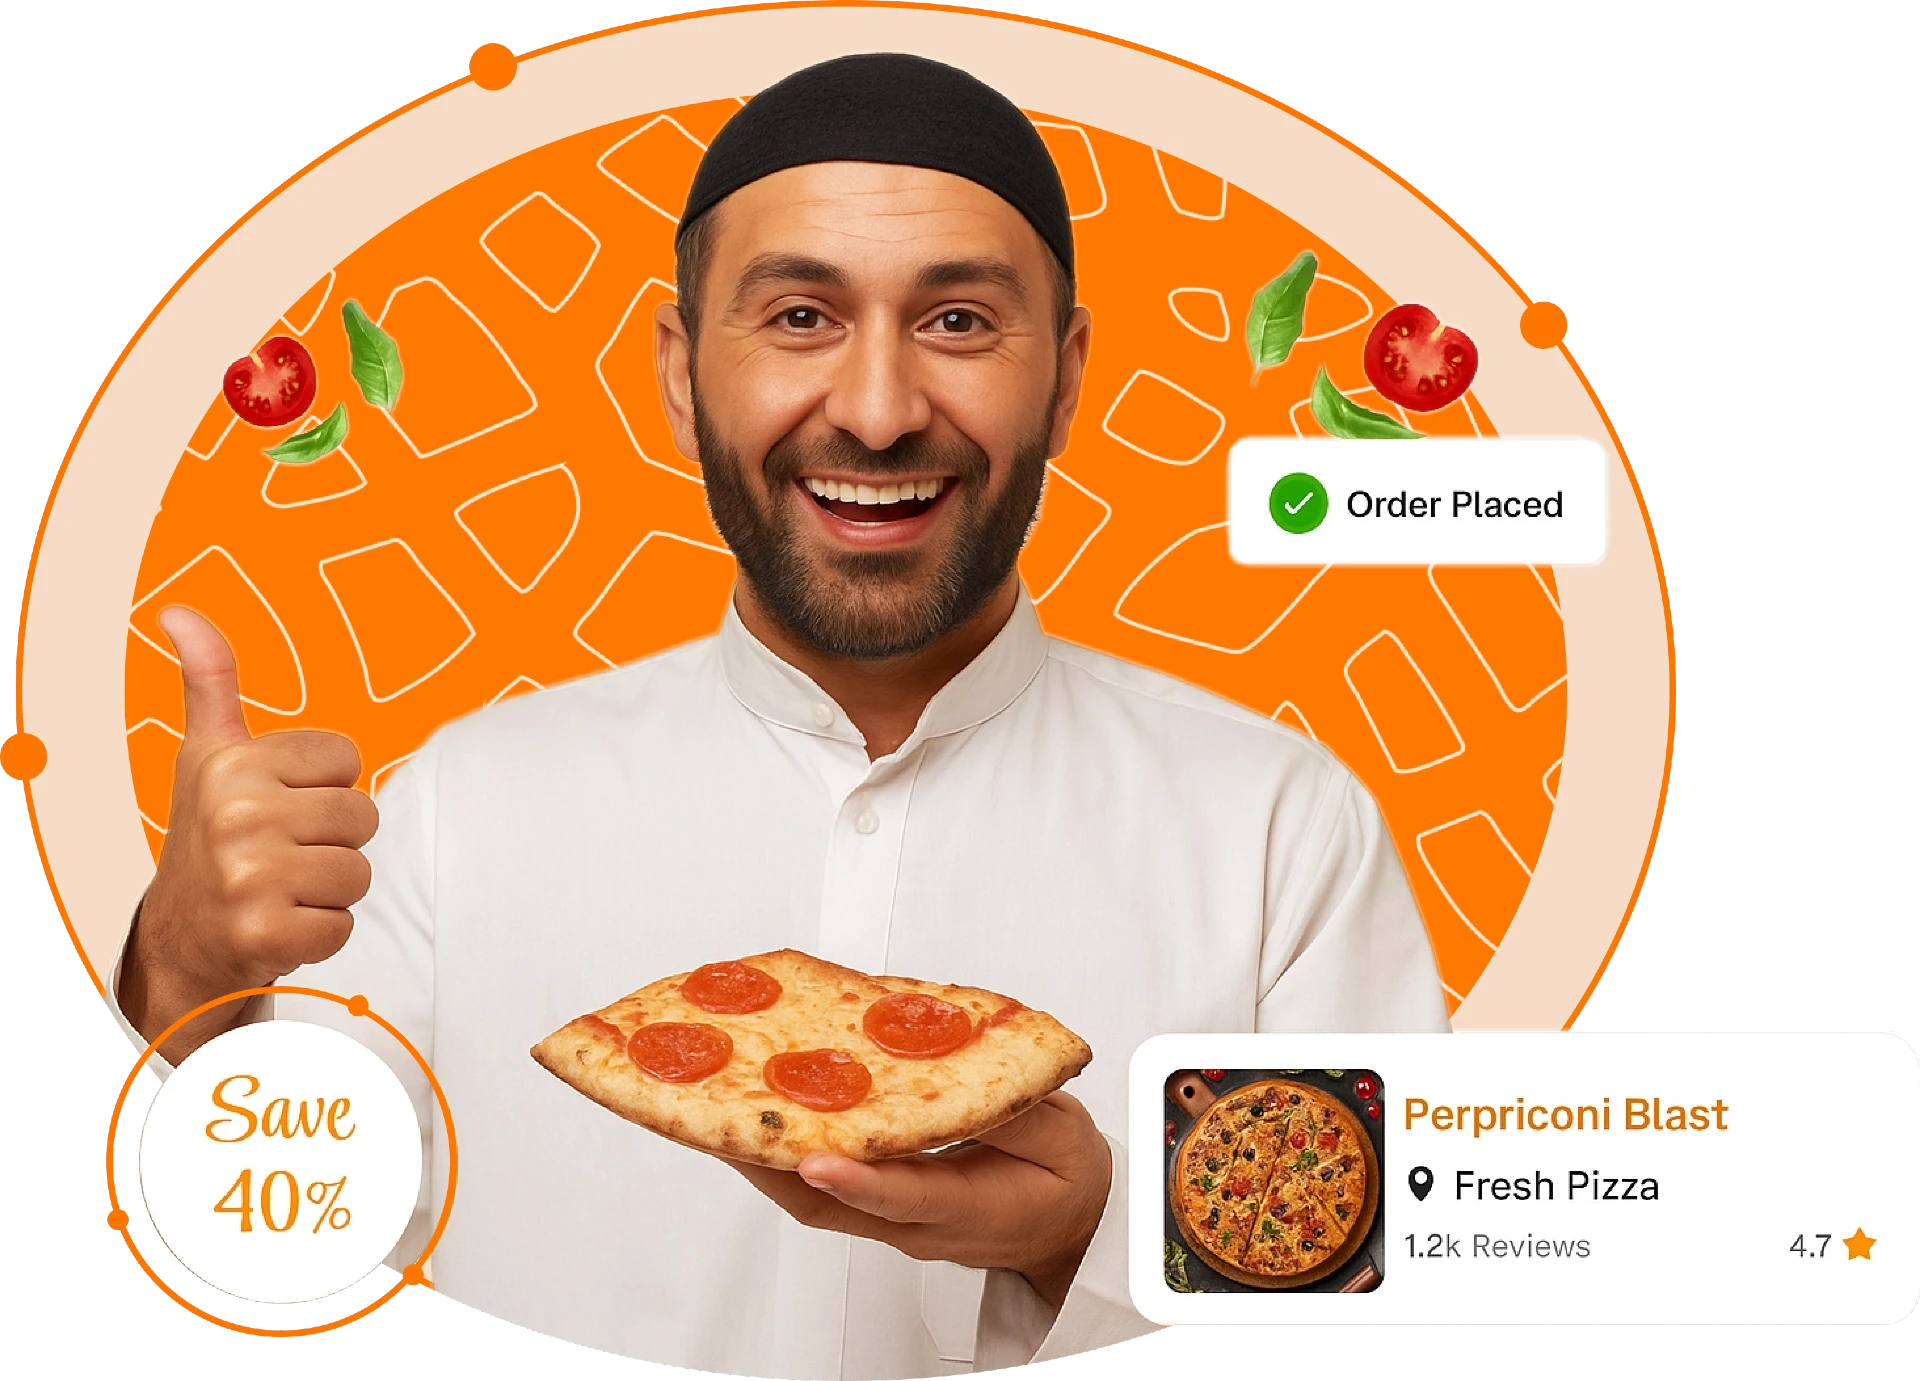
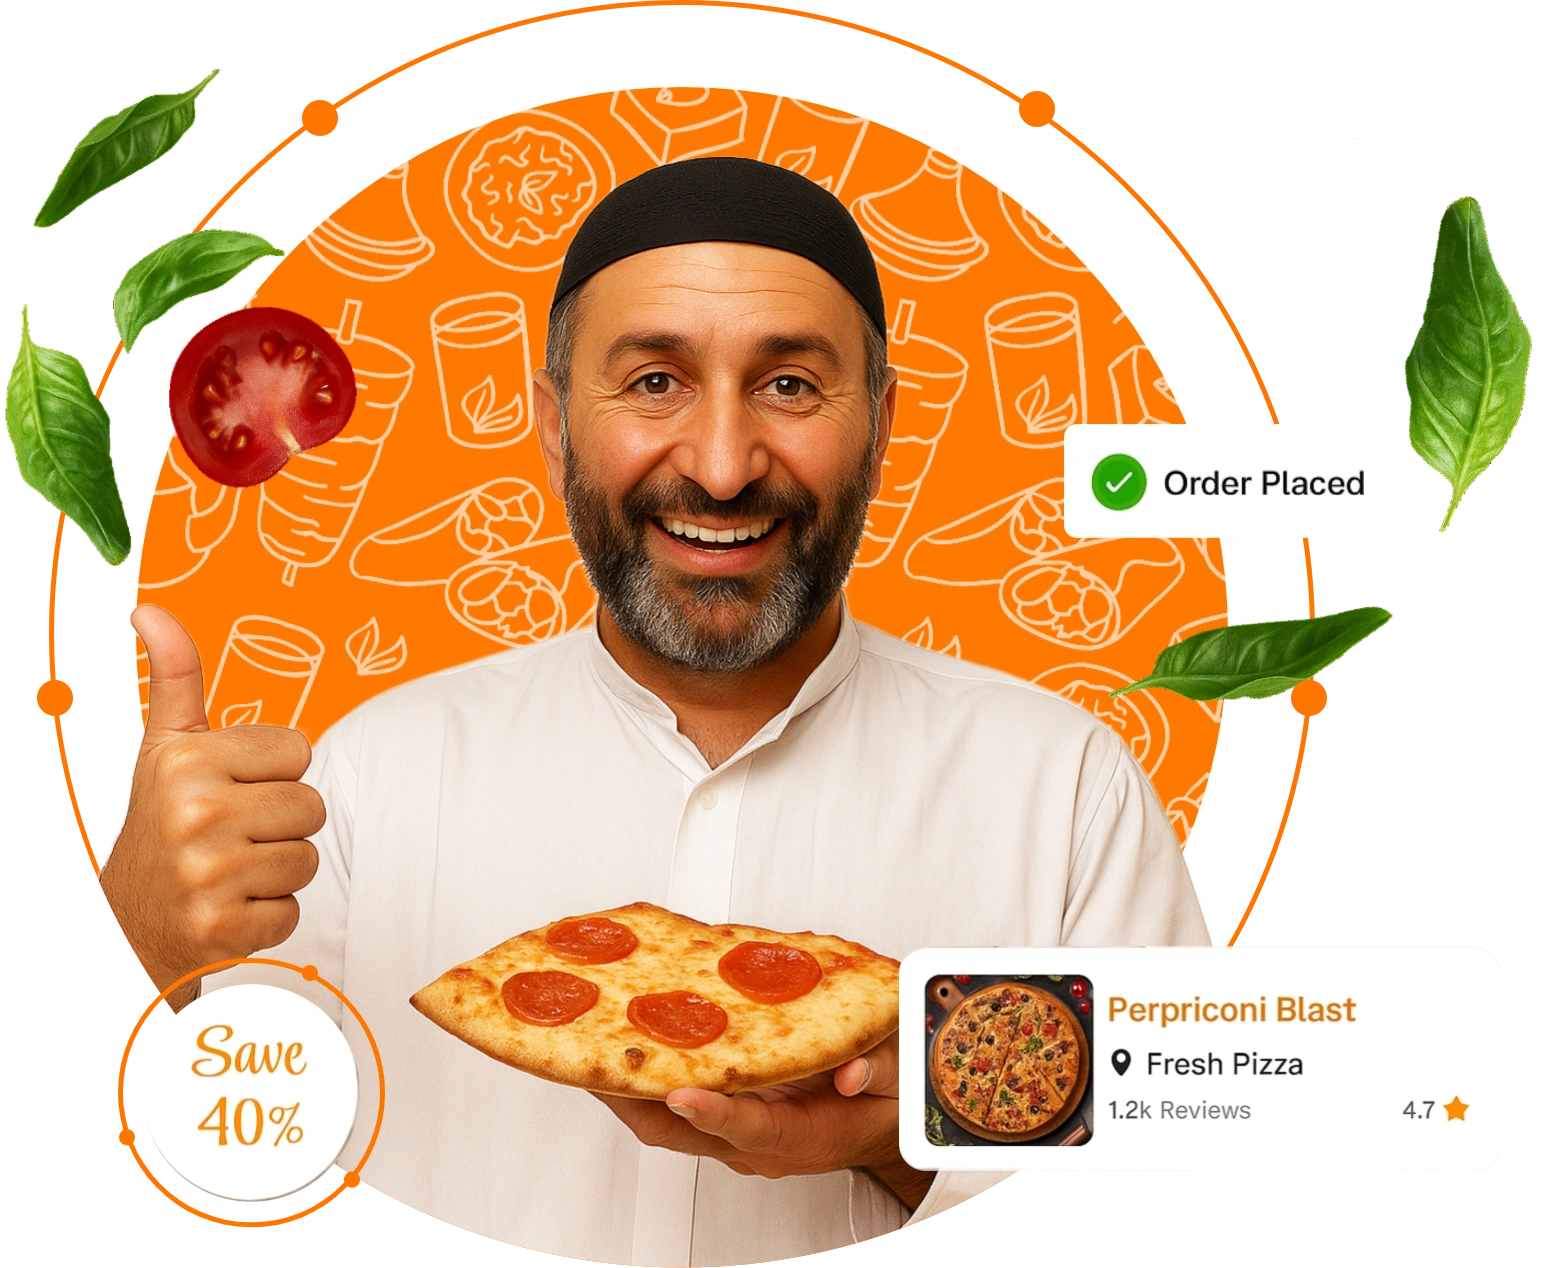
feat: update the design of hero section

diff --git a/src/app/[locale]/(marketing)/(landing)/_components/Hero.tsx b/src/app/[locale]/(marketing)/(landing)/_components/Hero.tsx
@@ -1,7 +1,10 @@
 import React from "react";
 import Image from "next/image";
 
+import { Star } from "lucide-react";
 import { useTranslations } from "next-intl";
+
+import { Button } from "@/components/ui/button";
 
 const Hero = () => {
   const t = useTranslations("landing.hero");
@@ -13,19 +16,77 @@ const Hero = () => {
         alt={"hero section banner"}
         className="object-cover"
       />
-      <div className="absolute top-0 flex h-full w-full items-center justify-center bg-black/60">
+      <div className="absolute top-0 flex h-full w-full items-center justify-center bg-black/85">
         <div className="content-container flex h-full w-full items-center justify-center gap-5 pt-20 pb-5 max-lg:flex-col">
-          <div className="flex w-full flex-col gap-4 text-white max-lg:text-center lg:w-1/2">
-            <h1 className="text-3xl font-bold md:text-5xl lg:text-6xl xl:text-7xl">
+          <div className="flex w-full flex-col text-white max-lg:text-center lg:w-1/2 xl:pr-20">
+            <div className="mb-2 flex items-end gap-2 max-lg:justify-center">
+              <p className="text-lg font-semibold">Hot & Fresh Delivery.</p>
+              <div className="bg-primary mb-2 h-0.5 w-8"></div>
+            </div>
+
+            <h1 className="mb-4 text-2xl font-bold md:text-5xl lg:mb-6 lg:text-6xl xl:text-7xl">
               {t.rich("title", {
                 span: (chunks) => (
                   <span className="text-primary">{chunks}</span>
                 ),
               })}
             </h1>
-            <p className="font-semibold lg:text-lg">{t("description")}</p>
+            <p className="mb-8 font-semibold lg:mb-12 lg:text-lg">
+              {t("description")}
+            </p>
+            <div className="mb-8 flex items-center gap-4 max-lg:justify-center lg:mb-12">
+              <Button className="rounded-full" size={"lg"}>
+                Order Now
+              </Button>
+              <Button
+                className="text-primary border-primary rounded-full border bg-white hover:text-white"
+                size={"lg"}
+              >
+                Contact Us
+              </Button>
+            </div>
+            <div className="flex items-center gap-3 max-lg:justify-center">
+              <div className="flex">
+                <div className="overflow-hidden rounded-full border-2 border-white">
+                  <Image
+                    src={"/assets/images/landing/customer.jpeg"}
+                    alt="customer image"
+                    width={40}
+                    height={40}
+                    className="aspect-square size-10 object-cover"
+                  />
+                </div>
+                <div className="-ml-4 overflow-hidden rounded-full border-2 border-white">
+                  <Image
+                    src={"/assets/images/landing/customer-2.jpg"}
+                    alt="customer image"
+                    width={40}
+                    height={40}
+                    className="aspect-square size-10 object-cover"
+                  />
+                </div>
+                <div className="-ml-4 min-w-10 overflow-hidden rounded-full border-2 border-white">
+                  <Image
+                    src={"/assets/images/landing/customer-3.jpg"}
+                    alt="customer image"
+                    width={40}
+                    height={40}
+                    className="aspect-square size-10 object-cover"
+                  />
+                </div>
+              </div>
+
+              <div className="text-sm">
+                <p className="text-nowrap">Our Happy Customers</p>
+                <div className="flex items-center gap-1">
+                  <Star className="fill-yellow-400 text-yellow-400" size={16} />
+                  4.9
+                  <span className="text-muted-foreground"> (12k Reviews)</span>
+                </div>
+              </div>
+            </div>
           </div>
-          <div className="flex h-full w-full items-center lg:w-1/2 lg:py-28">
+          <div className="flex h-full w-full items-center lg:w-1/2">
             <div className="relative h-full w-full">
               <Image
                 fill
